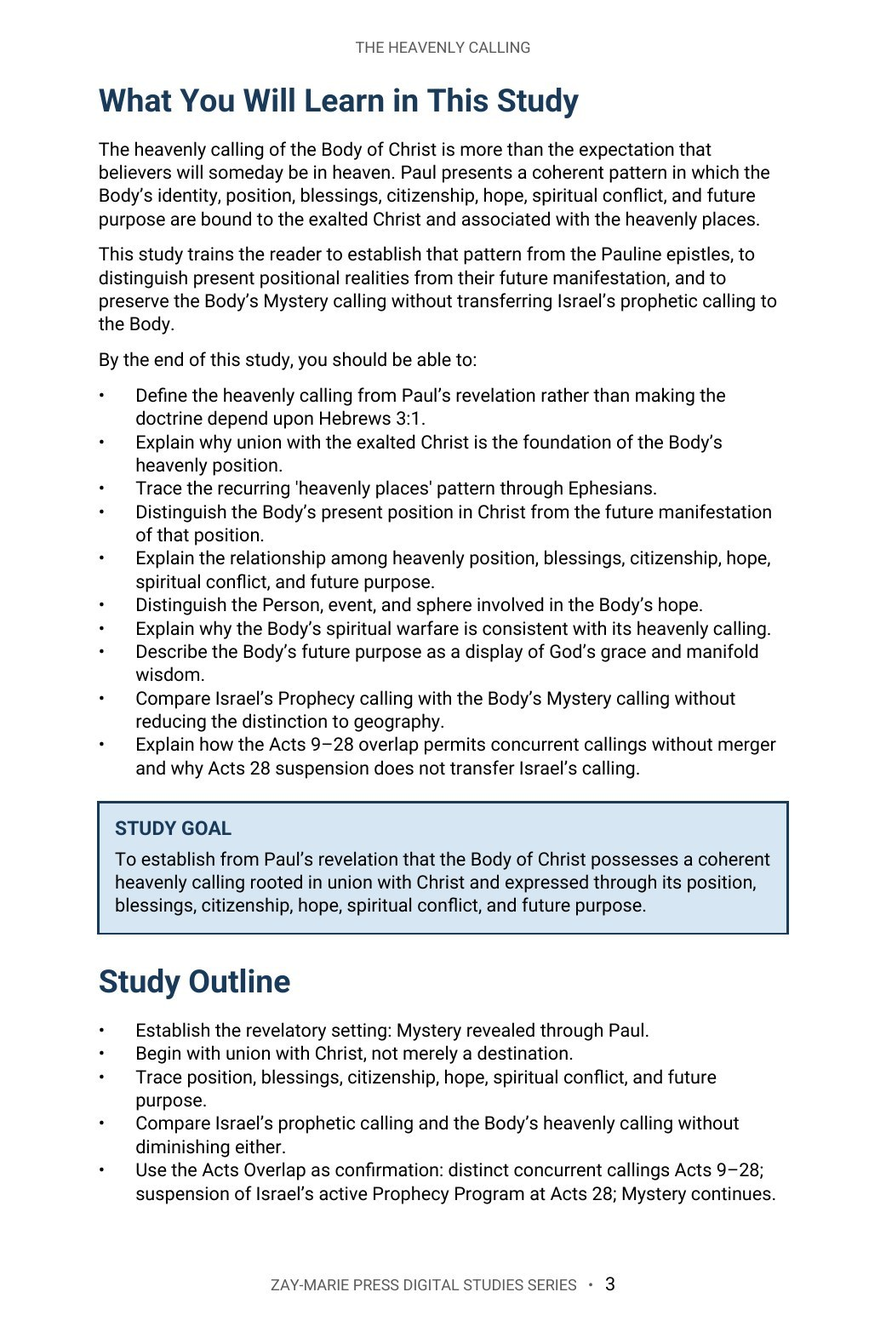
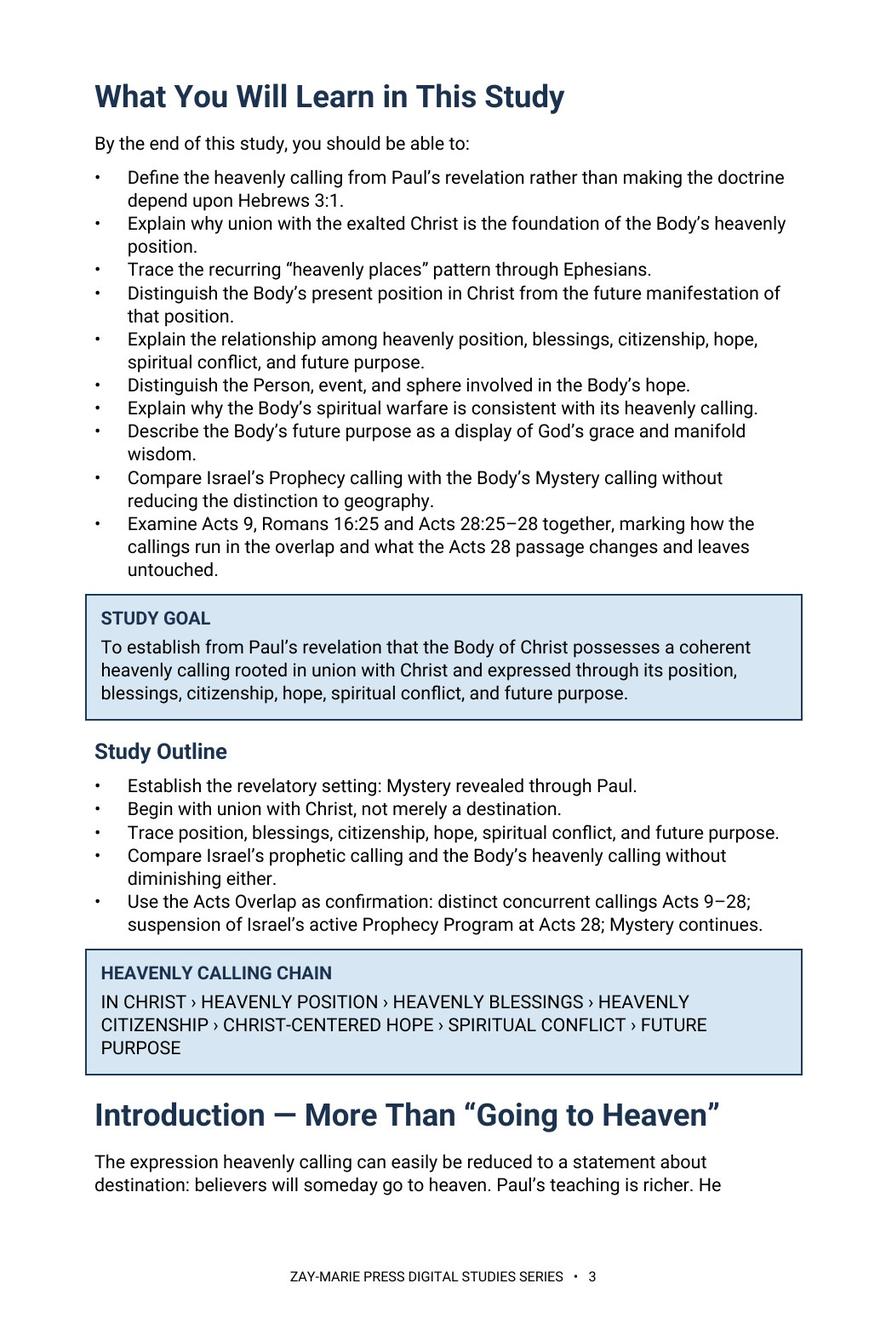
Study 5: rebuilt in Roboto at 10 pt on the current page, 15 pages; previews and trackers updated
Claude-Session: https://claude.ai/code/session_01HC7bs9KYP2scp4hCL6DkTp

diff --git a/study-05-the-heavenly-calling.html b/study-05-the-heavenly-calling.html
@@ -14,6 +14,6 @@
 <section class="detail-section soft"><div class="wrap"><div class="eyebrow">WHAT YOU’LL STUDY</div><h2>See the Heavenly Calling as One Coherent Pattern</h2><div class="study-points"><div class="study-point"><h3>The Calling Begins in Christ</h3><p>Establish union with the exalted Christ as the source of the Body’s position and purpose.</p></div><div class="study-point"><h3>Position and Blessings</h3><p>Examine the Body’s present position and spiritual blessings in the heavenly places in Christ.</p></div><div class="study-point"><h3>Citizenship, Hope, and Transformation</h3><p>Follow Paul’s teaching from heavenly citizenship to Christ-centered hope, gathering, and future transformation.</p></div><div class="study-point"><h3>Spiritual Conflict and Future Purpose</h3><p>See how the heavenly calling shapes present spiritual warfare and God’s display of grace and wisdom.</p></div><div class="study-point"><h3>Israel and the Body: Distinct Callings</h3><p>Preserve Israel’s prophetic, national, and Kingdom calling alongside the Body’s distinct Mystery calling.</p></div><div class="study-point"><h3>Acts 9–28 and Acts 28</h3><p>Confirm concurrent callings during the overlap and explain why suspension does not cancel or transfer Israel’s calling.</p></div></div></div></section>
 <section class="detail-section cream"><div class="wrap"><div class="eyebrow">KEY SCRIPTURES</div><h2>Examine the Passages for Yourself</h2><div class="scripture-grid"><div class="scripture-card"><h3>Romans 16:25–26</h3><p>Places the Body’s distinct calling within the Mystery kept secret and revealed through Paul.</p></div><div class="scripture-card"><h3>Ephesians 1:3</h3><p>Identifies the Body’s spiritual blessings as associated with the heavenly places in Christ.</p></div><div class="scripture-card"><h3>Ephesians 1:20–23; 2:6–7</h3><p>Connects Christ’s exaltation with the Body’s present position and future purpose.</p></div><div class="scripture-card"><h3>Philippians 3:20–21</h3><p>Joins heavenly citizenship with expectation, transformation, and conformity to Christ.</p></div><div class="scripture-card"><h3>Colossians 1:5, 27; 3:1–4</h3><p>Shows a hope centered upon Christ and a future manifestation with Him.</p></div><div class="scripture-card"><h3>Ephesians 6:10–18</h3><p>Describes the spiritual character of the Body’s present conflict and resources.</p></div><div class="scripture-card"><h3>Acts 3:21</h3><p>Locates Israel’s restitution hope within what God spoke through the prophets.</p></div><div class="scripture-card"><h3>Acts 28:25–28</h3><p>Marks the suspension of Israel’s active Prophecy Program while Mystery continues.</p></div></div></div></section>
 <section class="detail-section"><div class="wrap"><div class="eyebrow">FROM THE STUDY</div><h2>Christ-Centered Before Location-Centered</h2><div class="excerpt"><blockquote>“The heavenly calling is Christ-centered before it is location-centered. The Body possesses its heavenly position because it is in the exalted Christ.”</blockquote><p>The calling begins with union with Christ and unfolds through position, blessings, citizenship, hope, spiritual conflict, and future purpose. This full Pauline pattern preserves both the completeness of the Body’s calling and the distinctness of Israel’s prophetic promises.</p></div></div></section>
-<section class="detail-section soft"><div class="wrap"><div class="eyebrow">A LOOK INSIDE</div><h2>Preview the Study Before You Purchase</h2><p class="preview-instruction">Click any page to enlarge it for reading.</p><div class="preview-grid"><div class="preview-card"><a class="preview-image-link" data-preview-lightbox href="assets/study-05-page-2.jpg"><img src="assets/study-05-page-2.jpg" alt="Study 5 interior preview — page 2, table of contents"/></a><div class="page-no">Page 2</div><h3>Table of Contents</h3><p>See the full structure of the study, from the introduction through the final synthesis.</p></div><div class="preview-card"><a class="preview-image-link" data-preview-lightbox href="assets/study-05-page-3.jpg"><img src="assets/study-05-page-3.jpg" alt="Study 5 interior preview — page 3, what you will learn and study outline"/></a><div class="page-no">Page 3</div><h3>What You Will Learn</h3><p>See the study’s goals for distinguishing the Body’s heavenly calling and the outline that carries the study from calling to application.</p></div><div class="preview-card"><a class="preview-image-link" data-preview-lightbox href="assets/study-05-page-8.jpg"><img src="assets/study-05-page-8.jpg" alt="Study 5 interior preview — page 8, hope, gathering, and transformation"/></a><div class="page-no">Page 8</div><h3>Hope, Gathering, and Transformation</h3><p>Examine a hope centered upon Christ, the gathering, transformation, and the Body’s heavenly calling.</p></div></div></div></section>
-<section class="detail-section"><div class="wrap"><div class="eyebrow">WHAT’S INCLUDED</div><h2>A Focused Study Built for<br/>Understanding and Teaching</h2><div class="includes-grid"><div class="include-item"><h3>16-Page In-Depth Biblical Study</h3><p>A coherent Pauline case for the Body’s position, hope, purpose, and heavenly character in Christ.</p></div><div class="include-item"><h3>13 Core Teaching Sections</h3><p>Build the full pattern from union with Christ through future purpose and present conduct.</p></div><div class="include-item"><h3>Heavenly Calling Chain</h3><p>Follow the argument from union and position to blessings, citizenship, hope, conflict, and purpose.</p></div><div class="include-item"><h3>Scripture-Tracing Exercise</h3><p>Distinguish what each passage says about Christ, the Body, present position, and future manifestation.</p></div><div class="include-item"><h3>15 Review &amp; Discussion Questions</h3><p>Test the complete argument, including hope, conflict, distinct callings, the overlap, and Acts 28.</p></div><div class="include-item"><h3>Teaching Outline</h3><p>A ready framework for teaching the calling’s Christ-centered source, full pattern, and application.</p></div><div class="include-item"><h3>Eight Guided Investigations</h3><p>Study union with Christ, heavenly places, hope, warfare, grace, Israel’s calling, and the Acts Overlap.</p></div><div class="include-item"><h3>Final Synthesis Exercise</h3><p>Write a two- to three-page explanation that reconstructs the full heavenly-calling chain.</p></div></div></div></section>
-<section class="detail-section cream"><div class="wrap"><div class="final-buy"><div><div class="eyebrow">STUDY 5 · DIGITAL STUDY</div><h2>The Heavenly Calling</h2><p>16-page digital PDF · For personal use</p></div><div class="final-offer"><div class="detail-price">$5.99</div><span class="detail-button pending" aria-disabled="true">Checkout Coming Soon</span></div></div><a class="back-link" href="digital-studies.html">← Back to All Digital Studies</a></div></section><section class="study-method-course-bridge"><div class="wrap"><div class="study-method-course-panel"><div><div class="eyebrow">BUILD THE INTERPRETIVE METHOD</div><h2>Want More Than a Focused Study?</h2><p>Digital Studies examine particular biblical subjects and difficult passages. The 40-lesson Biblical Hermeneutics course teaches a complete, repeatable method for establishing meaning in context, determining proper assignment, and making responsible application.</p></div><a class="btn btn-primary" href="biblical-hermeneutics-course.html">BIBLICAL HERMENEUTICS COURSE</a></div></div></section></main><div class="preview-lightbox" id="preview-lightbox" role="dialog" aria-modal="true" aria-label="Enlarged study page preview"><button class="preview-lightbox-close" type="button" aria-label="Close enlarged preview">×</button><img src="" alt=""/><div class="preview-lightbox-hint">Scroll to read the full page · Press Esc or click outside the page to close</div></div><footer class="site-footer"><div class="wrap footer-grid"><div class="footer-about"><h3>Zay-Marie Press</h3><p class="footer-tagline"><em>Where the Bible Means What It Says.</em></p><p>Zay-Marie Press is a Christian theological publisher dedicated to producing doctrinally precise, carefully structured biblical resources that equip pastors, teachers, and serious students with clarity, depth, and Scripture-anchored truth.</p><p><a href="https://zaymariepress.com">zaymariepress.com</a><br/><a href="mailto:info@zaymariepress.com">info@zaymariepress.com</a></p></div><div class="footer-column"><h3>Explore</h3><div class="footer-links-stacked"><a href="books.html">Books</a><br/><a href="series.html">Series</a><br/><a href="biblical-hermeneutics-course.html">Course</a><br/><a href="digital-studies.html">Digital Studies</a><br/><a href="resources.html">Resources</a><br/><a href="bible-book-summaries.html">Bible Book Summaries</a><br/><a href="doctrinal-packets.html">Doctrinal Packets</a><br/><a href="historical-drift.html">Historical Drift</a><br/><a href="about.html">About</a><br/><a href="contact.html">Contact</a></div></div><div class="footer-column"><h3>Reader Support</h3><div class="footer-links-stacked"><a href="reader-support.html#faq">FAQ</a><br/><a href="reader-support.html#shipping-returns">Shipping &amp; Returns</a><br/><a href="reader-support.html#digital-downloads">Digital Downloads</a><br/><a href="reader-support.html#contact-support">Contact Support</a></div></div><div class="footer-column"><h3>Acts Overlap</h3><p><strong>Acts Overlap Theology Series</strong></p><p><em>Two Distinct Streams. One Overlap.</em></p><p><a href="series.html">Series Overview</a></p></div></div><div class="wrap footer-bottom">© 2026 Zay-Marie Press. All rights reserved.</div></footer><script src="site.js"></script><script>(function(){var box=document.getElementById("preview-lightbox"),img=box.querySelector("img"),close=box.querySelector(".preview-lightbox-close"),hint=box.querySelector(".preview-lightbox-hint"),hintTimer;function shut(){clearTimeout(hintTimer);box.classList.remove("open");hint.classList.remove("fade");document.body.style.overflow="";img.src=""}document.querySelectorAll("[data-preview-lightbox]").forEach(function(a){a.addEventListener("click",function(e){e.preventDefault();clearTimeout(hintTimer);img.src=a.getAttribute("href");img.alt=a.querySelector("img").alt;hint.classList.remove("fade");box.classList.add("open");document.body.style.overflow="hidden";box.scrollTop=0;hintTimer=setTimeout(function(){hint.classList.add("fade")},3000)})});close.addEventListener("click",shut);box.addEventListener("click",function(e){if(e.target===box)shut()});document.addEventListener("keydown",function(e){if(e.key==="Escape"&&box.classList.contains("open"))shut()})})();</script></body></html>
+<section class="detail-section soft"><div class="wrap"><div class="eyebrow">A LOOK INSIDE</div><h2>Preview the Study Before You Purchase</h2><p class="preview-instruction">Click any page to enlarge it for reading.</p><div class="preview-grid"><div class="preview-card"><a class="preview-image-link" data-preview-lightbox href="assets/study-05-page-2.jpg"><img src="assets/study-05-page-2.jpg" alt="Study 5 interior preview — page 2, table of contents"/></a><div class="page-no">Page 2</div><h3>Table of Contents</h3><p>See the full structure of the study, from the introduction through the final synthesis.</p></div><div class="preview-card"><a class="preview-image-link" data-preview-lightbox href="assets/study-05-page-3.jpg"><img src="assets/study-05-page-3.jpg" alt="Study 5 interior preview — page 3, what you will learn and study outline"/></a><div class="page-no">Page 3</div><h3>What You Will Learn</h3><p>See the study’s goals for distinguishing the Body’s heavenly calling and the outline that carries the study from calling to application.</p></div><div class="preview-card"><a class="preview-image-link" data-preview-lightbox href="assets/study-05-page-7.jpg"><img src="assets/study-05-page-7.jpg" alt="Study 5 interior preview — page 7, hope, gathering, and transformation"/></a><div class="page-no">Page 7</div><h3>Hope, Gathering, and Transformation</h3><p>Examine a hope centered upon Christ, the gathering, transformation, and the Body’s heavenly calling.</p></div></div></div></section>
+<section class="detail-section"><div class="wrap"><div class="eyebrow">WHAT’S INCLUDED</div><h2>A Focused Study Built for<br/>Understanding and Teaching</h2><div class="includes-grid"><div class="include-item"><h3>15-Page In-Depth Biblical Study</h3><p>A coherent Pauline case for the Body’s position, hope, purpose, and heavenly character in Christ.</p></div><div class="include-item"><h3>13 Core Teaching Sections</h3><p>Build the full pattern from union with Christ through future purpose and present conduct.</p></div><div class="include-item"><h3>Heavenly Calling Chain</h3><p>Follow the argument from union and position to blessings, citizenship, hope, conflict, and purpose.</p></div><div class="include-item"><h3>Scripture-Tracing Exercise</h3><p>Distinguish what each passage says about Christ, the Body, present position, and future manifestation.</p></div><div class="include-item"><h3>15 Review &amp; Discussion Questions</h3><p>Test the complete argument, including hope, conflict, distinct callings, the overlap, and Acts 28.</p></div><div class="include-item"><h3>Teaching Outline</h3><p>A ready framework for teaching the calling’s Christ-centered source, full pattern, and application.</p></div><div class="include-item"><h3>Eight Guided Investigations</h3><p>Study union with Christ, heavenly places, hope, warfare, grace, Israel’s calling, and the Acts Overlap.</p></div><div class="include-item"><h3>Final Synthesis Exercise</h3><p>Write a two- to three-page explanation that reconstructs the full heavenly-calling chain.</p></div></div></div></section>
+<section class="detail-section cream"><div class="wrap"><div class="final-buy"><div><div class="eyebrow">STUDY 5 · DIGITAL STUDY</div><h2>The Heavenly Calling</h2><p>15-page digital PDF · For personal use</p></div><div class="final-offer"><div class="detail-price">$5.99</div><span class="detail-button pending" aria-disabled="true">Checkout Coming Soon</span></div></div><a class="back-link" href="digital-studies.html">← Back to All Digital Studies</a></div></section><section class="study-method-course-bridge"><div class="wrap"><div class="study-method-course-panel"><div><div class="eyebrow">BUILD THE INTERPRETIVE METHOD</div><h2>Want More Than a Focused Study?</h2><p>Digital Studies examine particular biblical subjects and difficult passages. The 40-lesson Biblical Hermeneutics course teaches a complete, repeatable method for establishing meaning in context, determining proper assignment, and making responsible application.</p></div><a class="btn btn-primary" href="biblical-hermeneutics-course.html">BIBLICAL HERMENEUTICS COURSE</a></div></div></section></main><div class="preview-lightbox" id="preview-lightbox" role="dialog" aria-modal="true" aria-label="Enlarged study page preview"><button class="preview-lightbox-close" type="button" aria-label="Close enlarged preview">×</button><img src="" alt=""/><div class="preview-lightbox-hint">Scroll to read the full page · Press Esc or click outside the page to close</div></div><footer class="site-footer"><div class="wrap footer-grid"><div class="footer-about"><h3>Zay-Marie Press</h3><p class="footer-tagline"><em>Where the Bible Means What It Says.</em></p><p>Zay-Marie Press is a Christian theological publisher dedicated to producing doctrinally precise, carefully structured biblical resources that equip pastors, teachers, and serious students with clarity, depth, and Scripture-anchored truth.</p><p><a href="https://zaymariepress.com">zaymariepress.com</a><br/><a href="mailto:info@zaymariepress.com">info@zaymariepress.com</a></p></div><div class="footer-column"><h3>Explore</h3><div class="footer-links-stacked"><a href="books.html">Books</a><br/><a href="series.html">Series</a><br/><a href="biblical-hermeneutics-course.html">Course</a><br/><a href="digital-studies.html">Digital Studies</a><br/><a href="resources.html">Resources</a><br/><a href="bible-book-summaries.html">Bible Book Summaries</a><br/><a href="doctrinal-packets.html">Doctrinal Packets</a><br/><a href="historical-drift.html">Historical Drift</a><br/><a href="about.html">About</a><br/><a href="contact.html">Contact</a></div></div><div class="footer-column"><h3>Reader Support</h3><div class="footer-links-stacked"><a href="reader-support.html#faq">FAQ</a><br/><a href="reader-support.html#shipping-returns">Shipping &amp; Returns</a><br/><a href="reader-support.html#digital-downloads">Digital Downloads</a><br/><a href="reader-support.html#contact-support">Contact Support</a></div></div><div class="footer-column"><h3>Acts Overlap</h3><p><strong>Acts Overlap Theology Series</strong></p><p><em>Two Distinct Streams. One Overlap.</em></p><p><a href="series.html">Series Overview</a></p></div></div><div class="wrap footer-bottom">© 2026 Zay-Marie Press. All rights reserved.</div></footer><script src="site.js"></script><script>(function(){var box=document.getElementById("preview-lightbox"),img=box.querySelector("img"),close=box.querySelector(".preview-lightbox-close"),hint=box.querySelector(".preview-lightbox-hint"),hintTimer;function shut(){clearTimeout(hintTimer);box.classList.remove("open");hint.classList.remove("fade");document.body.style.overflow="";img.src=""}document.querySelectorAll("[data-preview-lightbox]").forEach(function(a){a.addEventListener("click",function(e){e.preventDefault();clearTimeout(hintTimer);img.src=a.getAttribute("href");img.alt=a.querySelector("img").alt;hint.classList.remove("fade");box.classList.add("open");document.body.style.overflow="hidden";box.scrollTop=0;hintTimer=setTimeout(function(){hint.classList.add("fade")},3000)})});close.addEventListener("click",shut);box.addEventListener("click",function(e){if(e.target===box)shut()});document.addEventListener("keydown",function(e){if(e.key==="Escape"&&box.classList.contains("open"))shut()})})();</script></body></html>

diff --git a/site.js b/site.js
@@ -62,7 +62,7 @@ const resourceModal=document.querySelector('#resource-modal'), resourceModalTitl
 if(resourceModal&&resourceModalTriggers.length){const closeResourceModal=()=>{resourceModal.hidden=true;document.body.classList.remove('resource-modal-open');lastResourceTrigger?.focus();};resourceModalTriggers.forEach(trigger=>trigger.addEventListener('click',()=>{lastResourceTrigger=trigger;if(resourceModalTitle)resourceModalTitle.textContent=trigger.dataset.title||'Resource';if(resourceModalDescription)resourceModalDescription.textContent=trigger.dataset.description||'';if(resourceModalLink){resourceModalLink.href=trigger.dataset.href||'#';resourceModalLink.textContent=trigger.dataset.linkText||'OPEN RESOURCE';}resourceModal.hidden=false;document.body.classList.add('resource-modal-open');resourceModalClose?.focus();}));resourceModalClose?.addEventListener('click',closeResourceModal);resourceModal.addEventListener('click',e=>{if(e.target===resourceModal)closeResourceModal();});document.addEventListener('keydown',e=>{if(e.key==='Escape'&&!resourceModal.hidden)closeResourceModal();});}
 
 /* Display the verified final-PDF page count at the primary purchase decision point. */
-const digitalStudyPageCounts={1:17,2:19,3:16,4:17,5:16,6:16,7:14,8:13,9:16,10:20,11:15,12:15,13:19,14:15,15:15,16:16,17:18,18:18,19:16,20:16,21:17,22:16,23:14,24:16,25:17,26:16,27:16,28:16,29:19,30:17,31:18,32:19,33:18,34:16,35:16,36:16,37:16,38:16,39:16,40:16,41:16,42:17,43:17,44:19,45:19,46:20,47:19,48:18,49:20,50:19,51:20,52:19,53:19,54:17,55:20,56:20,57:20,58:19,59:20,60:15,61:16,62:18,63:17,64:17,65:16,66:16,67:17,68:16,69:17,70:17,71:16};
+const digitalStudyPageCounts={1:17,2:19,3:16,4:17,5:15,6:16,7:14,8:13,9:16,10:20,11:15,12:15,13:19,14:15,15:15,16:16,17:18,18:18,19:16,20:16,21:17,22:16,23:14,24:16,25:17,26:16,27:16,28:16,29:19,30:17,31:18,32:19,33:18,34:16,35:16,36:16,37:16,38:16,39:16,40:16,41:16,42:17,43:17,44:19,45:19,46:20,47:19,48:18,49:20,50:19,51:20,52:19,53:19,54:17,55:20,56:20,57:20,58:19,59:20,60:15,61:16,62:18,63:17,64:17,65:16,66:16,67:17,68:16,69:17,70:17,71:16};
 const digitalStudyMatch=window.location.pathname.match(/\/study-(\d+)-/i);
 const digitalStudyFormat=document.querySelector('.detail-hero .detail-format');
 if(digitalStudyMatch&&digitalStudyFormat){const studyNumber=Number(digitalStudyMatch[1]),pageCount=digitalStudyPageCounts[studyNumber];if(pageCount)digitalStudyFormat.textContent=`Digital PDF · ${pageCount} Pages`;}

diff --git a/CLAUDE.md b/CLAUDE.md
@@ -23,7 +23,7 @@ These are kept in the repo at `controlling-documents/` and are the current versi
 - As of v1.50 (publisher directive, 2026-10-03), the **What You Will Learn in This Study** section is always bulleted, never set as running paragraphs, written into this file in the same pass (Master Standard Section 3 item 4, Section 6 structure line, Section 22): a list of bullet points, each describing one process, textual marker or interpretive discipline the reader will practice (Section 17 still governs what they may say); at most one short lead-in line may stand above the bullets (for example, “By the end of this study, you should be able to:”); the Study Goal callout and the Study Outline keep their own forms. It governs every new study and every study rebuilt or retrofitted from now on; earlier studies take it when reopened or when the publisher directs. In every study check (Step 1), report whether the section is bulleted. First applied to Study 43.
 **`controlling-documents/Digital_Studies_Relationship_Map_v1.39.md`** — records each study's distinct subject, its related studies, the eight priced six-study collections, the Paul's Missionary Journeys cross-reference map, and the five primary catalog categories (currently version 1.39, covers Studies 1–71; update it as new studies publish, bump the version number, rename the file to match, and log the change in its own version-history table — mirroring the Master Standard's `_vX.Y` filename convention). Check a proposed topic against it before recommending or writing a new study. (2026-09-28: the file was missing from this repo despite this note referencing it; replaced from the publisher's copy and bumped v1.15→v1.25 in the same pass. If this note ever again points to a version not present under `controlling-documents/`, ask the publisher for a copy rather than proceeding without the check.)
 - **`controlling-documents/Digital_Studies_Category_Standard_v1.1.md`** — FINAL and binding (publisher, 2026-10-01): the rules for the five primary catalog categories (Foundations, Israel & Prophecy, Body of Christ, Passages, Doctrinal Themes), the ordered decision procedure for new studies, the precedents, all 71 fixed assignments, and the cover-label form for each category. Read it before placing any card or cover label. Do not ask the publisher where a study belongs; apply the procedure and state the result. Only the publisher changes a ruling; then bump this Standard's version and filename, re-letter the cover, and update the Relationship Map.
-- **`controlling-documents/Doctrinal_Upgrade_Retrofit_Plan_v1.96.md`** — working tracker for retrofitting Studies 1–59 to the 2026-10-02 doctrinal upgrade (Framework/PAM v1.1, Master Standard v1.40, Rules 7–17): withdrawn-wording search keys, impact tiers, waves and the per-study method. Read it before continuing the retrofit in any session; update status, bump the version and rename the file as work proceeds.
+- **`controlling-documents/Doctrinal_Upgrade_Retrofit_Plan_v1.97.md`** — working tracker for retrofitting Studies 1–59 to the 2026-10-02 doctrinal upgrade (Framework/PAM v1.1, Master Standard v1.40, Rules 7–17): withdrawn-wording search keys, impact tiers, waves and the per-study method. Read it before continuing the retrofit in any session; update status, bump the version and rename the file as work proceeds.
 - **`controlling-documents/Doctrinal_Packet_Standard_v0.3.md`** — Doctrinal Packet Standard (DRAFT; §7 approved). Governs the separate Doctrinal Packets product strand (5-page interpretive PDFs per Bible book — a print-friendly cover as page 1 plus 4 content pages, $2.99, KJV, pilot: Genesis, live at `packet-genesis.html`, hub `doctrinal-packets.html`; site pages say "5 Pages", cover styles live in `packets.css`, Old Testament blue and New Testament soft pale green, hub listed in Bible order). **Preview rule (publisher directive, 2026-09-29, packets only):** previews show about one page's worth in two cropped views (top of page 1 through the anchor texts; the chart section) — never the exegesis, architecture, Mystery contrast, logic chain, outline, or closing. Master Standard §16/§17 still govern Digital Studies. Bump the version and rename the file as the Standard is finalized.
 - **`controlling-documents/Preview_Page_Spoiler_Retrofit_Audit_v1.4.md`** — working tracker for the Studies 1–60 preview-page conclusion-spoiler retrofit (see the section below). Read it before continuing that audit in any session; update its status fields and changelog, bump the version, and rename the file to match as the audit proceeds — same `_vX.Y` convention as the other controlling documents. As of v1.1, the website-side half was DONE: all 60 studies' "What You'll Study" text was judged against the rule (methodology documented in the file) and 22 points across 11 studies were rewritten and pushed; an unrelated Study 22 content bug (Study 21's content had leaked into it) was also found and fixed. As of v1.2, the publisher supplied Studies 1–60's interior production PDFs and the interior-PDF half was also surveyed (read-only): 10 studies (37, 41, 45, 47, 48, 49, 51, 52, 53, 54) were found to have at least one interior "What You Will Learn" violation, 50 studies were confirmed compliant, and the orphaned `assets/study-45-sanctification-under-grace.docx` (removed from the repo per the publisher in v1.0) was confirmed word-for-word identical to Study 45's actual production interior PDF content. As of v1.3, the publisher supplied editable DOCX sources for all 10 violating studies; all 15 violating points were rewritten and approved, delivered as corrected final PDFs, and — along the way — a second defect was found and fixed (Studies 47 and 48's source DOCX still had an unintegrated cover placeholder despite both being long-published live with real covers; fixed by inserting the existing approved cover art). The website's "What You Will Learn" preview image (`study-NN-page-3.jpg`) was regenerated from the corrected content for all 10 studies and pushed to `main` (commit `cea1859`), verified against a fresh clone. **The website side of this audit is now fully compliant for all 60 studies.** Outstanding: the publisher's purchasable interior PDF files themselves have corrected versions delivered, but distribution to existing purchasers was decided by the publisher on 2026-09-29: silent swap of the files behind the existing downloads, no reissue notice (recorded in the v1.4 changelog entry; the product files are not in this repo).
 

diff --git a/controlling-documents/Doctrinal_Upgrade_Retrofit_Plan_v1.97.md b/controlling-documents/Doctrinal_Upgrade_Retrofit_Plan_v1.97.md
@@ -189,3 +189,4 @@ Working tracker for correcting published studies to the Framework/PAM v1.1, Mast
 - v1.94 (2026-10-03): Study 71 rebuilt in Roboto at 10 pt on the current page from the publisher's PDF (first retrofit; no DOCX supplied; text taken from the PDF word for word), 16 pages (cover plus 15; unchanged). Changes: What You Will Learn set as bullets under one lead-in (closing paragraph removed); six callouts reduced to five (A Promise That Names a Line became a run-in paragraph, wording unchanged); Teaching Outline numerals changed to 1–8; split two-lists table merged; reader-facing wording: "The Framework of this series places…" (8.1) and "the study's framework" replaced. No withdrawn doctrinal wording found; no standing-sentence additions needed. pdffonts confirms Roboto only. Previews 2, 3 and 5 re-rendered. Study 60 PDF reviewed read-only: already in the current format, no change. Study 61 (PDF-only first retrofit) remains.
 - v1.95 (2026-10-03): Wave 5 website-side sweep re-run (read-only, then one fix). Checked all 71 study pages: site.js has all 71 counts; page text matches site.js and the N-1 interior line for every study; all asset links resolve; catalog cards, connections entries and the '71 studies' counts are complete; no internal working terms (Framework as a control document, PAM, Program Assignment, Master Standard, firewall) and no withdrawn wording (shared ground, gathered into the Body, identity not program membership) in any page; remaining 'framework' and 'spiritual Israel' hits are ordinary teaching wording or tested labels; remaining 'finished work' hits are the publisher's KEEP rulings (v1.53). Fixed: sitemap.xml listed a dead URL for Study 32 (study-32-the-new-testament-and-the-new-covenant.html); corrected to study-32-covenant-theology-and-dispensational-theology.html. Preview images on Studies 4, 5, 6, 9, 11, 13, 17, 19–22, 24, 25, 27, 28, 30 and 34–41 are 1041×1565 (old page shape) and Study 61's are 1041×1347; these follow each study's rebuild. Still open: imprint KJV-sentence ruling (Studies 1, 21, 23, 26, 29, 31, 32, 33), Study 1 navy Investigation headings, footer alignment, Rule 18 full sentence for Study 21, held-back KJV tables (19–21, 25, 28), Romans 11 depth (9, 35, 36; possibly 21, 50, 55), Study 31 line 232, Study 58 eyebrow, Study 43 page-8 preview, Study 44 Acts-era-signs ruling, Study 48 TOC line, Genesis Doctrinal Packet check.
 - v1.96 (2026-10-04): Study 4 rebuilt in Roboto at 10 pt on the current page (first of the old-page-size items), 17 pages (was 18). Rule 19 wording corrected in section 4; overlap and Rule 17 sentences added; resumption wording softened; What You Will Learn bullets reworded to process lines. Callouts already 5. Previews 2, 3 and 6 re-rendered at 1041×1562; site.js 4:17; study page text 17 Pages.
+- v1.97 (2026-10-04): Study 5 rebuilt in Roboto at 10 pt on the current page, 15 pages (was 16). 23 callouts reduced to 5 (extras as run-in paragraphs, wording unchanged); What You Will Learn bullet 10 reworded; overlap and Rule 17 sentences added; section 7 resumption wording softened; Hebrews 3:1 sentence added. Roboto has no arrow glyph, so '→' is set as '›' and '□' as '[ ]' (arrow choice flagged to the publisher). Previews 2, 3 and 7 re-rendered at 1041×1562 (hope page moved from 8 to 7); site.js 5:15; study page 15 pages.

diff --git a/controlling-documents/Digital_Studies_PAM_Audit_v1.191.md b/controlling-documents/Digital_Studies_PAM_Audit_v1.191.md
@@ -420,3 +420,4 @@ Study 15 PDF not yet supplied. Typography: none of Studies 2, 3, 6, 8 is in EB G
 - v1.188 (2026-10-03): Study 71 rebuilt in Roboto at 10 pt, 16 pages; Framework references removed from reader text (see Retrofit Plan v1.94).
 - v1.189 (2026-10-03): Wave 5 website sweep re-run; Study 32 sitemap URL corrected (see Retrofit Plan v1.95).
 - v1.190 (2026-10-04): Study 4 rebuilt in Roboto at 10 pt on the current page from the publisher's DOCX, 17 pages (was 18; old 432×648 page retired). Changes: What You Will Learn set as bullets under one lead-in (bullets 3, 4 and 9 reworded as process lines); Rule 19 correction in section 4 (finished-work/saving-efficacy sentences replaced); overlap and Rule 17 sentences added to section 9; section 10 resumption wording softened; outlines numbered 1–N (see Retrofit Plan v1.96).
+- v1.191 (2026-10-04): Study 5 rebuilt in Roboto at 10 pt on the current page from the publisher's DOCX, 15 pages (was 16; old 432×648 page retired). Changes: What You Will Learn set as bullets under one lead-in (bullet 10 reworded as a process line); 18 extra callouts set as run-in paragraphs (5 boxed); overlap and Rule 17 sentences added; section 7 resumption wording softened; Hebrews 3:1 reading sentence added; 'Study #5' references removed; Teaching Outline numbered; arrow glyph replaced with a Roboto character (see Retrofit Plan v1.97).
